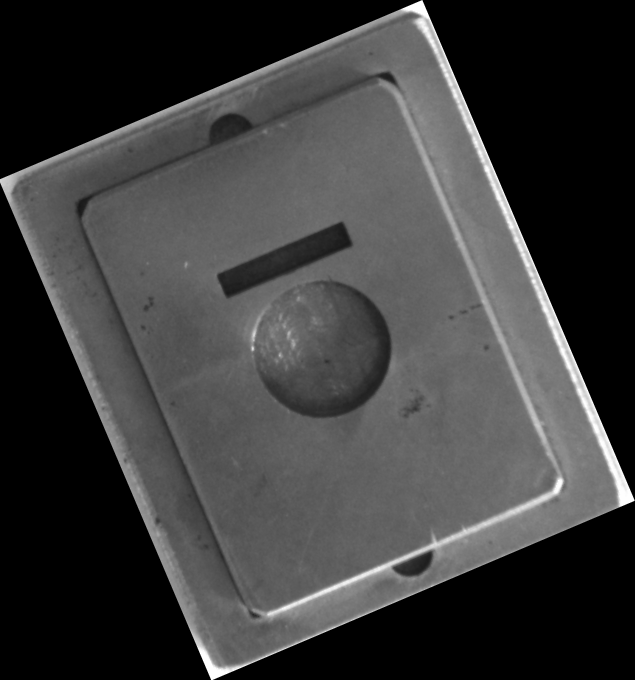
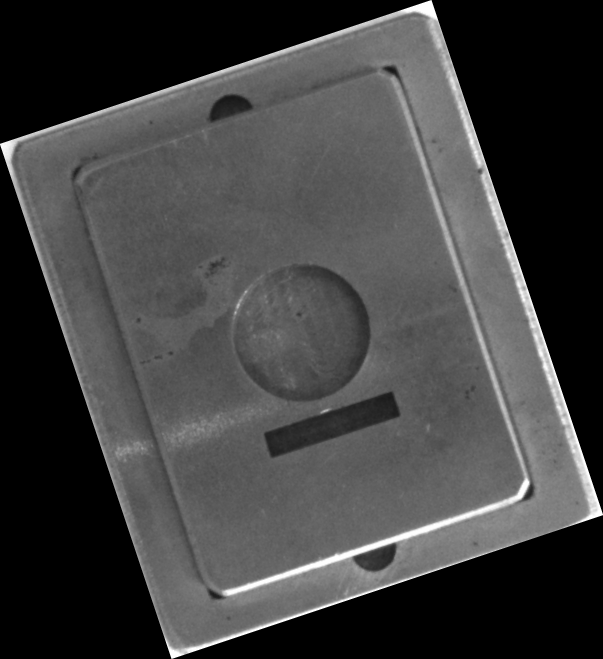
fixed inverted coordinate issue

diff --git a/scripts/matcherFunctions.py b/scripts/matcherFunctions.py
@@ -2,9 +2,7 @@
 import matplotlib.pyplot as plt
 import cv2
 import numpy as np
-from linetimer import CodeTimer
 import imutils
-import imreg_dft
 from config import *
 
 
@@ -12,7 +10,7 @@ def filterImage(img):
     se = cv2.getStructuringElement(cv2.MORPH_RECT, (8, 8))
     bg = cv2.morphologyEx(img, cv2.MORPH_DILATE, se)
     out_gray = cv2.divide(img, bg, scale=255)
-    return img
+    return out_gray
 
 
 def get_borderval(img, radius=None):
@@ -86,7 +84,7 @@ def get_apofield(shape, aporad):
 
 def apodize(image):
 
-    aporad = int(min(image.shape) * 0.12)
+    aporad = int(min(image.shape) * 0.10)
     apofield = get_apofield(image.shape, aporad)
     res = image * apofield
     bg = get_borderval(image, aporad // 2)
@@ -107,14 +105,172 @@ def fft_log_polar(imgs):
     return stuffs, log_base, square_shape
 
 
+def get_lograd(shape, log_base):
+    ret = np.zeros(shape, dtype=np.float64)
+    ret += np.power(log_base, np.arange(shape[1], dtype=float))[np.newaxis, :]
+    return ret
+
+
+def wrap_angle(angles, ceil=2 * np.pi):
+    angles += ceil / 2.0
+    angles %= ceil
+    angles -= ceil / 2.0
+    return angles
+
+
+def get_constraint_mask(shape, log_base, constraints=None):
+    if constraints is None:
+        constraints = {}
+
+    mask = np.ones(shape, float)
+
+    if "scale" in constraints:
+        scale, sigma = constraints["scale"]
+        scales = np.fft.ifftshift(get_lograd(shape, log_base))
+        scales *= log_base ** (- shape[1] / 2.0)
+        scales -= 1.0 / scale
+        if sigma == 0:
+            ascales = np.abs(scales)
+            scale_min = ascales.min()
+            mask[ascales > scale_min] = 0
+        elif sigma is None:
+            pass
+        else:
+            mask *= np.exp(-scales ** 2 / sigma ** 2)
+
+    if "angle" in constraints:
+        angle, sigma = constraints["angle"]
+        angles = -np.linspace(0, np.pi,
+                              shape[0], endpoint=False)[:, np.newaxis]
+        angles += np.deg2rad(angle)
+        wrap_angle(angles, np.pi)
+        angles = np.rad2deg(angles)
+        if sigma == 0:
+            aangles = np.abs(angles)
+            angle_min = aangles.min()
+            mask[aangles > angle_min] = 0
+        elif sigma is None:
+            pass
+        else:
+            mask *= np.exp(-angles ** 2 / sigma ** 2)
+
+    mask = np.fft.fftshift(mask)
+    return mask
+
+
+def _argmax2D(array, reports=None):
+    amax = np.argmax(array)
+    ret = list(np.unravel_index(amax, array.shape))
+    return np.array(ret)
+
+
+def get_subarr(array, center, rad):
+    dim = 1 + 2 * rad
+    subarr = np.zeros((dim,) * 2)
+    corner = np.array(center) - rad
+    for ii in range(dim):
+        yidx = corner[0] + ii
+        yidx %= array.shape[0]
+        for jj in range(dim):
+            xidx = corner[1] + jj
+            xidx %= array.shape[1]
+            subarr[ii, jj] = array[yidx, xidx]
+    return subarr
+
+
+def interpolate(array, rough, rad=2):
+    rough = np.round(rough).astype(int)
+    surroundings = get_subarr(array, rough, rad)
+    com = argmax_ext(surroundings, 1)
+    offset = com - rad
+    ret = rough + offset
+    # similar to win.wrap, so
+    # -0.2 becomes 0.3 and then again -0.2, which is rounded to 0
+    # -0.8 becomes - 0.3 -> len() - 0.3 and then len() - 0.8,
+    # which is rounded to len() - 1. Yeah!
+    ret += 0.5
+    ret %= np.array(array.shape).astype(int)
+    ret -= 0.5
+    return ret
+
+
+def argmax_ext(array, exponent):
+    # COM thing
+    ret = None
+    if exponent == "inf":
+        ret = _argmax2D(array)
+    else:
+        col = np.arange(array.shape[0])[:, np.newaxis]
+        row = np.arange(array.shape[1])[np.newaxis, :]
+
+        arr2 = array ** exponent
+        arrsum = arr2.sum()
+        if arrsum == 0:
+            # We have to return SOMETHING, so let's go for (0, 0)
+            return np.zeros(2)
+        arrprody = np.sum(arr2 * col) / arrsum
+        arrprodx = np.sum(arr2 * row) / arrsum
+        ret = [arrprody, arrprodx]
+        # We don't use it, but it still tells us about value distribution
+
+    return np.array(ret)
+
+
+def success_get(array, coord, radius=2):
+    coord = np.round(coord).astype(int)
+    coord = tuple(coord)
+
+    subarr = get_subarr(array, coord, 2)
+
+    theval = subarr.sum()
+    theval2 = array[coord]
+    # bigval = np.percentile(array, 97)
+    # success = theval / bigval
+    # TODO: Think this out
+    success = np.sqrt(theval * theval2)
+    return success
+
+
+def argmax_angscale(array, log_base, exponent, constraints=None, reports=None):
+    mask = get_constraint_mask(array.shape, log_base, constraints)
+    array_orig = array.copy()
+
+    array *= mask
+    ret = argmax_ext(array, exponent)
+    ret_final = interpolate(array, ret)
+
+    if reports is not None and reports.show("scale_angle"):
+        reports["amas-orig"] = array_orig.copy()
+        reports["amas-postproc"] = array.copy()
+
+    success = success_get(array_orig, tuple(ret_final), 0)
+    return ret_final, success
+
+
+def phase_correlation(im0, im1, callback=None, *args):
+
+    f0, f1 = [np.fft.fft2(arr) for arr in (im0, im1)]
+    eps = abs(f1).max() * 1e-15
+    cps = abs(np.fft.ifft2((f0 * f1.conjugate()) / (abs(f0) * abs(f1) + eps)))
+    scps = np.fft.fftshift(cps)
+
+    (t0, t1), success = callback(scps, *args)
+    ret = np.array((t0, t1))
+
+    t0 -= f0.shape[0] // 2
+    t1 -= f0.shape[1] // 2
+
+    ret -= np.array(f0.shape, int) // 2
+    return ret, success
+
+
 def calc_phase_correlation(img1, img2, log_base, pcorr_shape):
-    (arg_ang, arg_rad), success = imreg_dft.imreg._phase_correlation(
-        img1, img2,
-        imreg_dft.utils.argmax_angscale, log_base, 'inf', None, None)
+    (arg_ang, arg_rad), success = phase_correlation(
+        img1, img2, argmax_angscale, log_base, 'inf', None, None)
 
     angle = -np.pi * arg_ang / float(pcorr_shape[0])
     angle = np.rad2deg(angle)
-    angle = imreg_dft.utils.wrap_angle(angle, 360)
+    angle = wrap_angle(angle, 360)
     scale = log_base ** arg_rad
 
     angle = - angle
@@ -130,10 +286,10 @@ def rotate_image(image, angle):
     return rotated_image
 
 
-def templateMatch(img, template, angle):
+def templateMatch(img, template, angle, fftSuc):
     template = rotate_image(template, angle)
-    cv2.imwrite(
-        "/home/redop/catkin_ws/src/teal_camera/scripts/Template.png", template)
+    # cv2.imwrite(
+    #     "/home/redop/catkin_ws/src/teal_camera/scripts/Template.png", template)
     w, h = template.shape[::-1]
     # with CodeTimer():
     res = cv2.matchTemplate(img, template, cv2.TM_CCORR)
@@ -148,4 +304,11 @@ def templateMatch(img, template, angle):
     print(max_loc, min_loc, max_val)
     # if cv2.waitKey(0) == 32:
     #     cv2.imshow("result", img)
-    return img, cen[0], cen[1], angle
+    print(cen[0], cen[1], angle)
+    if (max_val >= THRESHOLD) and (fftSuc >= THRESHOLD_FFT) and (EQUAL_SCALE == False):
+        print("Object Found")
+        return img, cen[0], cen[1], angle
+    if (fftSuc >= THRESHOLD_FFT) and (EQUAL_SCALE == True):
+        print("Object Found")
+        return img, (cen[0]*100.0/scaleAngleMatcher), (cen[1] * 100.0/scaleAngleMatcher), angle
+    return img, -1, -1, 0

diff --git a/scripts/camera_bridge.py b/scripts/camera_bridge.py
@@ -32,11 +32,13 @@ class image_converter:
             "camera_server", ur5_cameraAction, execute_cb=self.callbackexec, auto_start=False)
         self.a_server.start()
         self.cam_coff = realWorldConversion.coefficient_calculator(
-            (398.5, 1644.0), (2247.5, 314.0), (240, 180))
+            (1644.0, 398.5), (314.0, 2247.5), (180, 240))
+        print(self.cam_coff)
 
     def callback(self, data):
         try:
             self.cv_image = self.bridge.imgmsg_to_cv2(data, "mono8")
+            # TODO
             self.cv_image = realWorldConversion.Image_undistortion(
                 self.cv_image)
             # cv2.namedWindow("Output", cv2.WINDOW_NORMAL)
@@ -62,13 +64,18 @@ class image_converter:
             with CodeTimer():
                 self.cv_image, _x, _y, _angle = self.functionImage(
                     self.img0, self.template, self.cv_image)
-            _x, _y = realWorldConversion.position_calculator(
-                _x, _y, (398.5, 1644.0), self.cam_coff)
-            feedback.x = _x
-            feedback.y = _y
+            result.valid = 0
+            if (_x != -1) and (_y != -1):
+                print("Object Found")
+                result.valid = 1
+                _x, _y = realWorldConversion.position_calculator(
+                    _x, _y, (398.5, 1644.0), self.cam_coff)
+
+            feedback.x = -_y
+            feedback.y = -_x
             feedback.angle = _angle
-            result.x = _x
-            result.y = _y
+            result.x = -_y
+            result.y = -_x
             result.angle = _angle
             self.a_server.publish_feedback(feedback)
             if success:

diff --git a/scripts/camera_detect.py b/scripts/camera_detect.py
@@ -8,12 +8,12 @@
 import numpy as np
 import cv2
 import camera_bridge
-from matcherFunctions import fft_log_polar, calc_phase_correlation, templateMatch
+from matcherFunctions import fft_log_polar, calc_phase_correlation, templateMatch, filterImage
 import rospy
 from config import *
 
-im1 = cv2.imread(TEMPLATE_BASE_NAME+".png", 0)
-template = cv2.imread(TEMPLATE_BASE_NAME+"_cropped.png", 0)
+im1 = (cv2.imread(TEMPLATE_BASE_NAME+".png", 0))
+template = (cv2.imread(TEMPLATE_BASE_NAME+"_cropped.png", 0))
 
 
 if EQUAL_SCALE is True:
@@ -31,6 +31,7 @@ im1 = cv2.resize(im1, dimAngle, interpolation=cv2.INTER_AREA)
 
 
 def findCoordinate(im1, template, im2):
+    # im2 = filterImage(im2)
     if EQUAL_SCALE is False:
         im2Template = np.copy(im2)
     im2 = cv2.resize(im2, dimAngle, interpolation=cv2.INTER_AREA)
@@ -38,9 +39,9 @@ def findCoordinate(im1, template, im2):
     result = calc_phase_correlation(
         img_res[0], img_res[1], log_base, pcorr_shape)
     if EQUAL_SCALE is True:
-        return templateMatch(im2, template, result[0])
+        return templateMatch(im2, template, result[0], result[1])
     else:
-        return templateMatch(im2Template, template, result[0])
+        return templateMatch(im2Template, template, result[0], result[1])
 
 
 def main():

diff --git a/scripts/realWorldConversion.py b/scripts/realWorldConversion.py
@@ -21,6 +21,7 @@ def Image_undistortion(input_image):
 
 
 def position_calculator(current_x, current_y, origin_pix, coefficient):
+    print(current_x, current_y)
     current_x_real = (origin_pix[0]-current_x)/coefficient[0]
     current_y_real = (origin_pix[1]-current_y)/coefficient[1]
     return current_x_real, current_y_real

diff --git a/scripts/config.py b/scripts/config.py
@@ -1,3 +1,5 @@
-TEMPLATE_BASE_NAME = "/home/redop/catkin_ws/src/teal_camera/scripts/neg6_3"
+TEMPLATE_BASE_NAME = "/home/redop/catkin_ws/src/teal_camera/scripts/neg6_5"
 EQUAL_SCALE = False
 scaleAngleMatcher = 5  # percent of original size
+THRESHOLD = 6478000000.0  # 9->8  38->19
+THRESHOLD_FFT = 0.18  # 24
